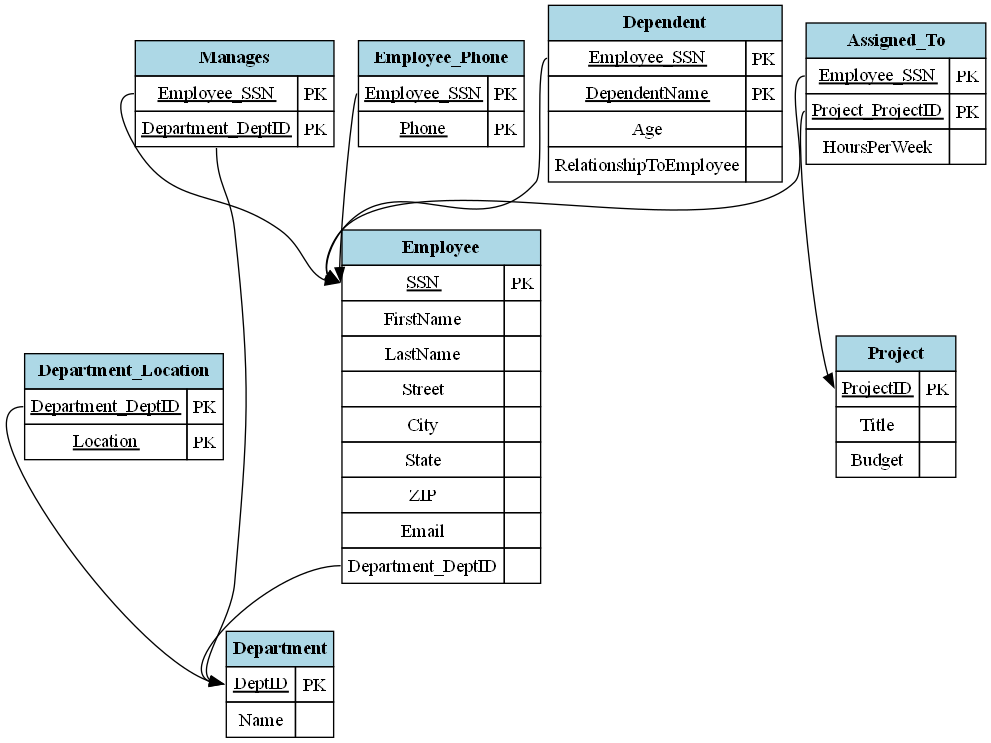
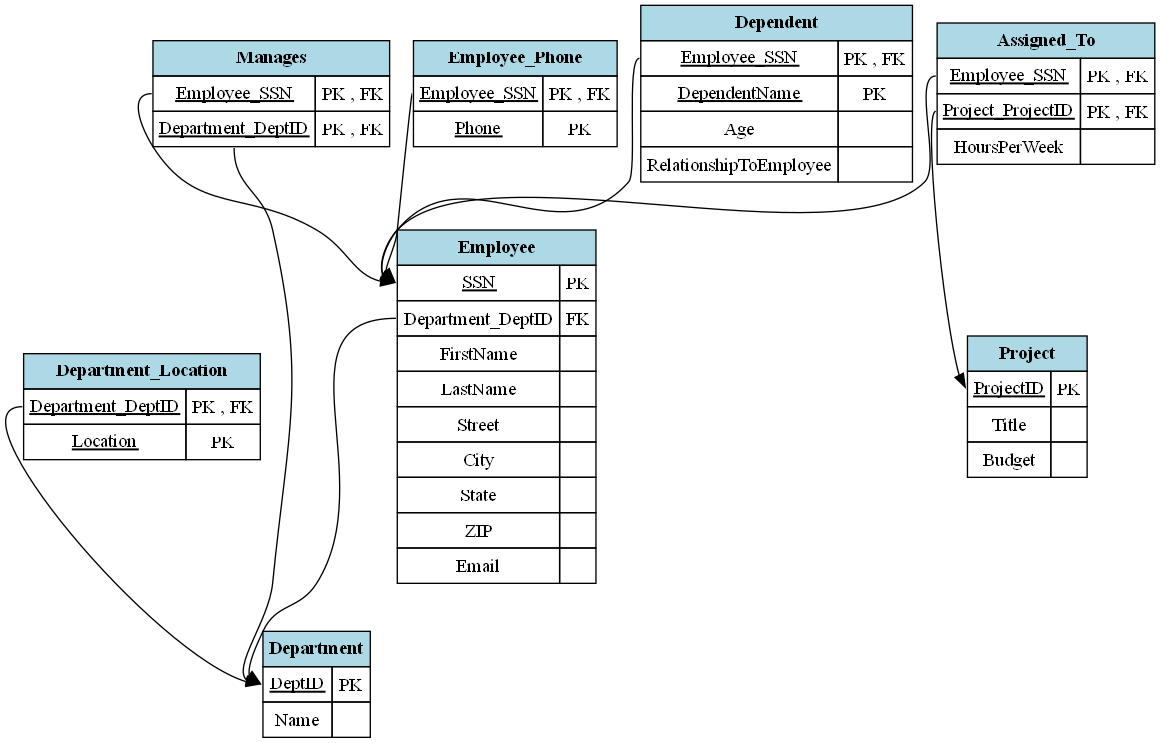
Finsih with testing

diff --git a/ER_to_Relation.py b/ER_to_Relation.py
@@ -1,6 +1,5 @@
 import json
 from graphviz import Digraph
-import os
 
 path = input("Enter JSON path: ").strip()
 with open(path, "r") as file:
@@ -41,11 +40,12 @@ for entity in data["entities"]:
             elif ismulti:
                 multi_table_name = f'{table_name}_{attribute_name}'
                 multi_pk = []
-                multi_attr = []
+                multi_fk = []
                 
                 for i in primary_keys :
                    fk_attr_name = f'{table_name}_{i}'
                    multi_pk.append(fk_attr_name)
+                   multi_fk.append(fk_attr_name)
                    foreign_keys.append({
                        'from_table' :  multi_table_name ,
                        'from_attr' :  fk_attr_name ,
@@ -56,49 +56,55 @@ for entity in data["entities"]:
                     multi_pk.extend(composite)
                     
                 else:
-                    multi_pk.append(attribute_name)
+                    multi_pk.append(attribute_name)   
                      
 
-                tables[multi_table_name] = {'pk' : multi_pk,'attributes' :[]}   
+                tables[multi_table_name] = {'pk' : multi_pk,'fk' : multi_fk ,'attributes' :[]}   
 
             else :
                if not is_pk : 
                 attr.append(attribute_name)
 
-        tables[table_name] = {'pk': primary_keys , 'attributes' : attr}                    
-#===============================================================================================
+        tables[table_name] = {'pk': primary_keys ,'fk' : [] ,'attributes' : attr}                    
+#=========================================WEAK ENTITY======================================================
 
     else :
         table_name = entity["name"].strip() 
-        tables[table_name] = {'pk': [], 'attributes': []}
+        tables[table_name] = {'pk': [], 'fk' : [] , 'attributes': []}
+        relation_attr = []
         for rel in data.get("relationships", []):
                 if rel.get("isIdentifying"):
                     entities_in_rel = [e['name'] for e in rel['entities']]
                     if table_name in entities_in_rel:
-                        owner_name = next((name for name in entities_in_rel if name != table_name), None)
+                        identiying_name = next((name for name in entities_in_rel if name != table_name), None)
+                        for attribute in rel.get("attributes", []):  
+                            attribute_name = attribute["name"]
+                            relation_attr.append(attribute_name)
                         break
 
-        owner_pks = tables[owner_name]['pk'] 
-        fk_columns = [f"{owner_name}_{pk}" for pk in owner_pks]
+        identifying_pks = tables[identiying_name]['pk'] 
+        fk_columns = [f"{identiying_name}_{pk}" for pk in identifying_pks]
         partial_keys = []
-        regular_columns = []
+        normal_attr = []
         for attr in entity["attributes"]:
                 if attr.get("isPartialKey"):
                     partial_keys.append(attr["name"])
                 elif "composite" in attr:
-                    regular_columns.extend(attr["composite"])
+                    normal_attr.extend(attr["composite"])
                 else:
-                    regular_columns.append(attr["name"])
+                    normal_attr.append(attr["name"])
         
         tables[table_name]['pk'] = fk_columns + partial_keys
-        tables[table_name]['attributes'] = regular_columns
-        for i, pk in enumerate(owner_pks):
+        tables[table_name]['fk'] = fk_columns
+        tables[table_name]['attributes'] = normal_attr
+        for i in relation_attr :
+          tables[table_name]['attributes'].append(i)
+
+        for i, pk in enumerate(identifying_pks):
                 foreign_keys.append({
                     'from_table': table_name, 'from_attr': fk_columns[i],
-                    'to_table': owner_name, 'to_attr': pk
+                    'to_table': identiying_name, 'to_attr': pk
                 })
-
-
 
 #=======================================HANDLE RELATIONSHIPS===========================================
 for rel in data.get("relationships", []):
@@ -114,10 +120,12 @@ for rel in data.get("relationships", []):
         else :                                  #IN CASE 1:1 I USED  Cross-reference RELATION BECAUSE NO INFO ABOUT PARTICIPATION
             new_relation_tableName =  rel['name'] 
             rel_pk = [] 
+            rel_fk=[]
             first_table_pks = tables[e1]['pk']
             second_table_pks = tables[e2]['pk']
             for pk in first_table_pks :
                 fk_col_name = f"{e1}_{pk}"
+                rel_fk.append(fk_col_name)
                 rel_pk.append(fk_col_name) 
                 foreign_keys.append({
                     'from_table': new_relation_tableName,
@@ -129,6 +137,7 @@ for rel in data.get("relationships", []):
             for pk in second_table_pks :
                 fk_col_name = f"{e2}_{pk}"
                 rel_pk.append(fk_col_name) 
+                rel_fk.append(fk_col_name)
                 foreign_keys.append({
                     'from_table': new_relation_tableName,
                     'from_attr': fk_col_name,
@@ -139,15 +148,16 @@ for rel in data.get("relationships", []):
             for attribute in rel.get("attributes", []): 
                 attribute_name = attribute["name"]
                 rel_attr.append(attribute_name)
-            tables[new_relation_tableName] = {'pk': rel_pk , 'attributes' : rel_attr}    
+            tables[new_relation_tableName] = {'pk': rel_pk ,'fk' : rel_fk, 'attributes' : rel_attr}    
                 
     
         if cardinality == "N:1" or cardinality == "1:N" : 
-            one_table_pks = tables[one_table]['pk']  
+            one_table_pks = tables[one_table]['pk']
+            many_table_fks =[]
             for pk in one_table_pks:
                 fk_col_name = f"{one_table}_{pk}"
                 if fk_col_name not in tables[many_table]['attributes']:
-                    tables[many_table]['attributes'].append(fk_col_name)
+                    tables[many_table]['fk'].append(fk_col_name)
                     foreign_keys.append({
                         'from_table': many_table,
                         'from_attr': fk_col_name,
@@ -161,14 +171,25 @@ for rel in data.get("relationships", []):
 
 
 ##################################CONNECT FOREIGN KEYS################################3        
-fk_cols = {(fk['from_table'], fk['from_attr']) for fk in foreign_keys}
 
 for table_name, table_data in tables.items():
     label = f'<<table BORDER="0" CELLBORDER="1" CELLSPACING="0" CELLPADDING="4"><tr><td COLSPAN="2" BGCOLOR="lightblue"><b>{table_name}</b></td></tr>\n'
     for pk in table_data['pk'] :
-        name = f'<u>{pk}</u>'
-        key_marker = "PK"
-        label += f'<TR><TD port="{pk}">{name}</TD><TD>{key_marker}</TD></TR>\n'  
+       if pk in table_data['fk'] : 
+            name = f'<u>{pk}</u>'
+            key_marker = "PK , FK"
+            label += f'<TR><TD port="{pk}">{name}</TD><TD>{key_marker}</TD></TR>\n'
+       else:
+            name = f'<u>{pk}</u>'
+            key_marker = "PK"
+            label += f'<TR><TD port="{pk}">{name}</TD><TD>{key_marker}</TD></TR>\n'
+    for fk in table_data['fk'] :
+        if fk not in  table_data['pk'] :
+            name = f'{fk}'
+            key_marker = "FK"
+            label += f'<TR><TD port="{fk}">{name}</TD><TD>{key_marker}</TD></TR>\n'
+
+              
     for attr in table_data['attributes'] :
         label += f'<TR><TD port = "{attr}">{attr}</TD><TD></TD></TR>\n'      
 
@@ -180,6 +201,7 @@ for fk in foreign_keys:
             f"{fk['from_table']}:{fk['from_attr']}",
             f"{fk['to_table']}:{fk['to_attr']}"
         )
+        
 
 Relation.render(filename="ER-to-Relation/Relational diagram", view=True, cleanup=False)
 
